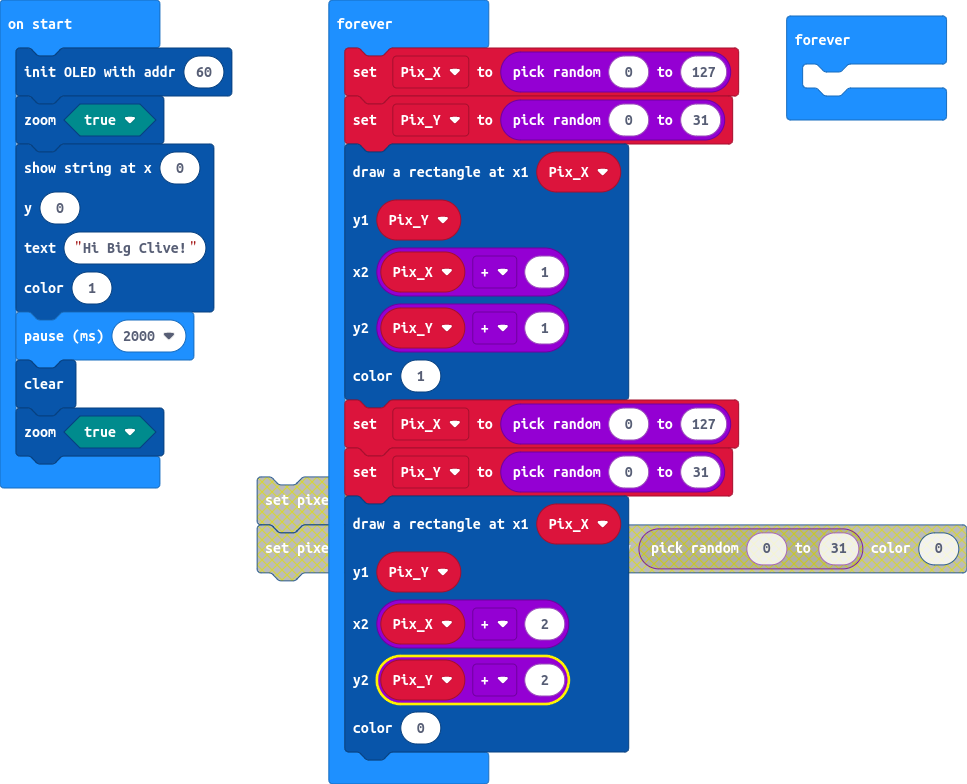
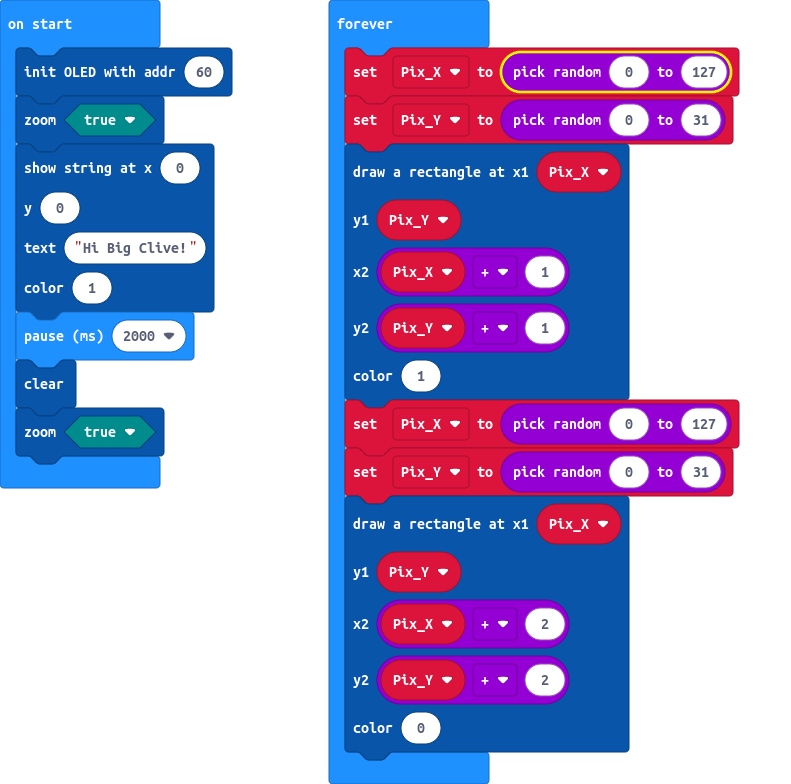
Update main.blocks, main.ts

diff --git a/main.ts b/main.ts
@@ -31,6 +31,3 @@ basic.forever(function () {
     0
     )
 })
-basic.forever(function () {
-	
-})
